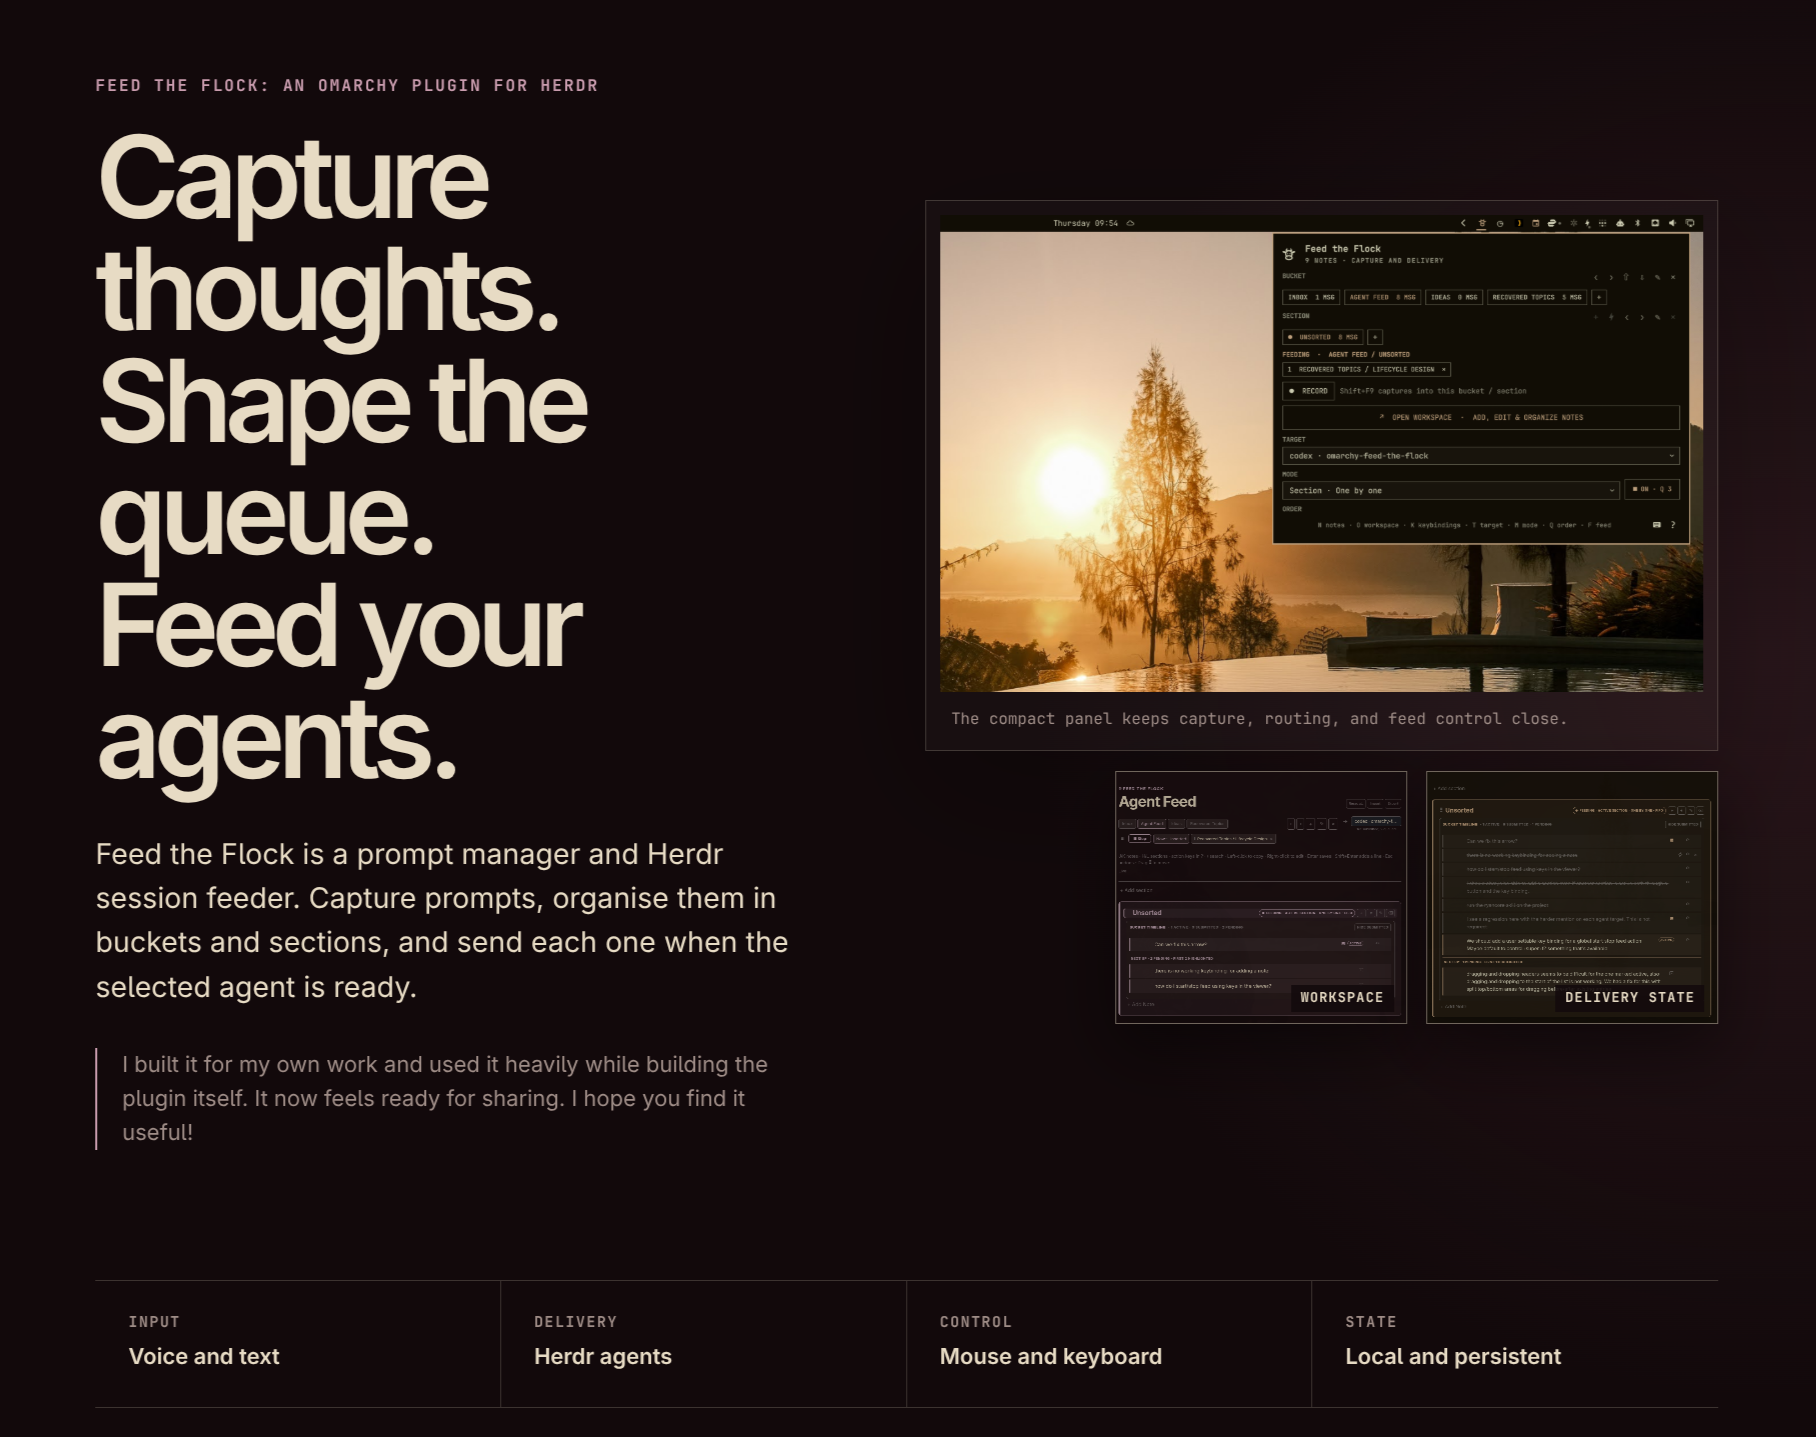
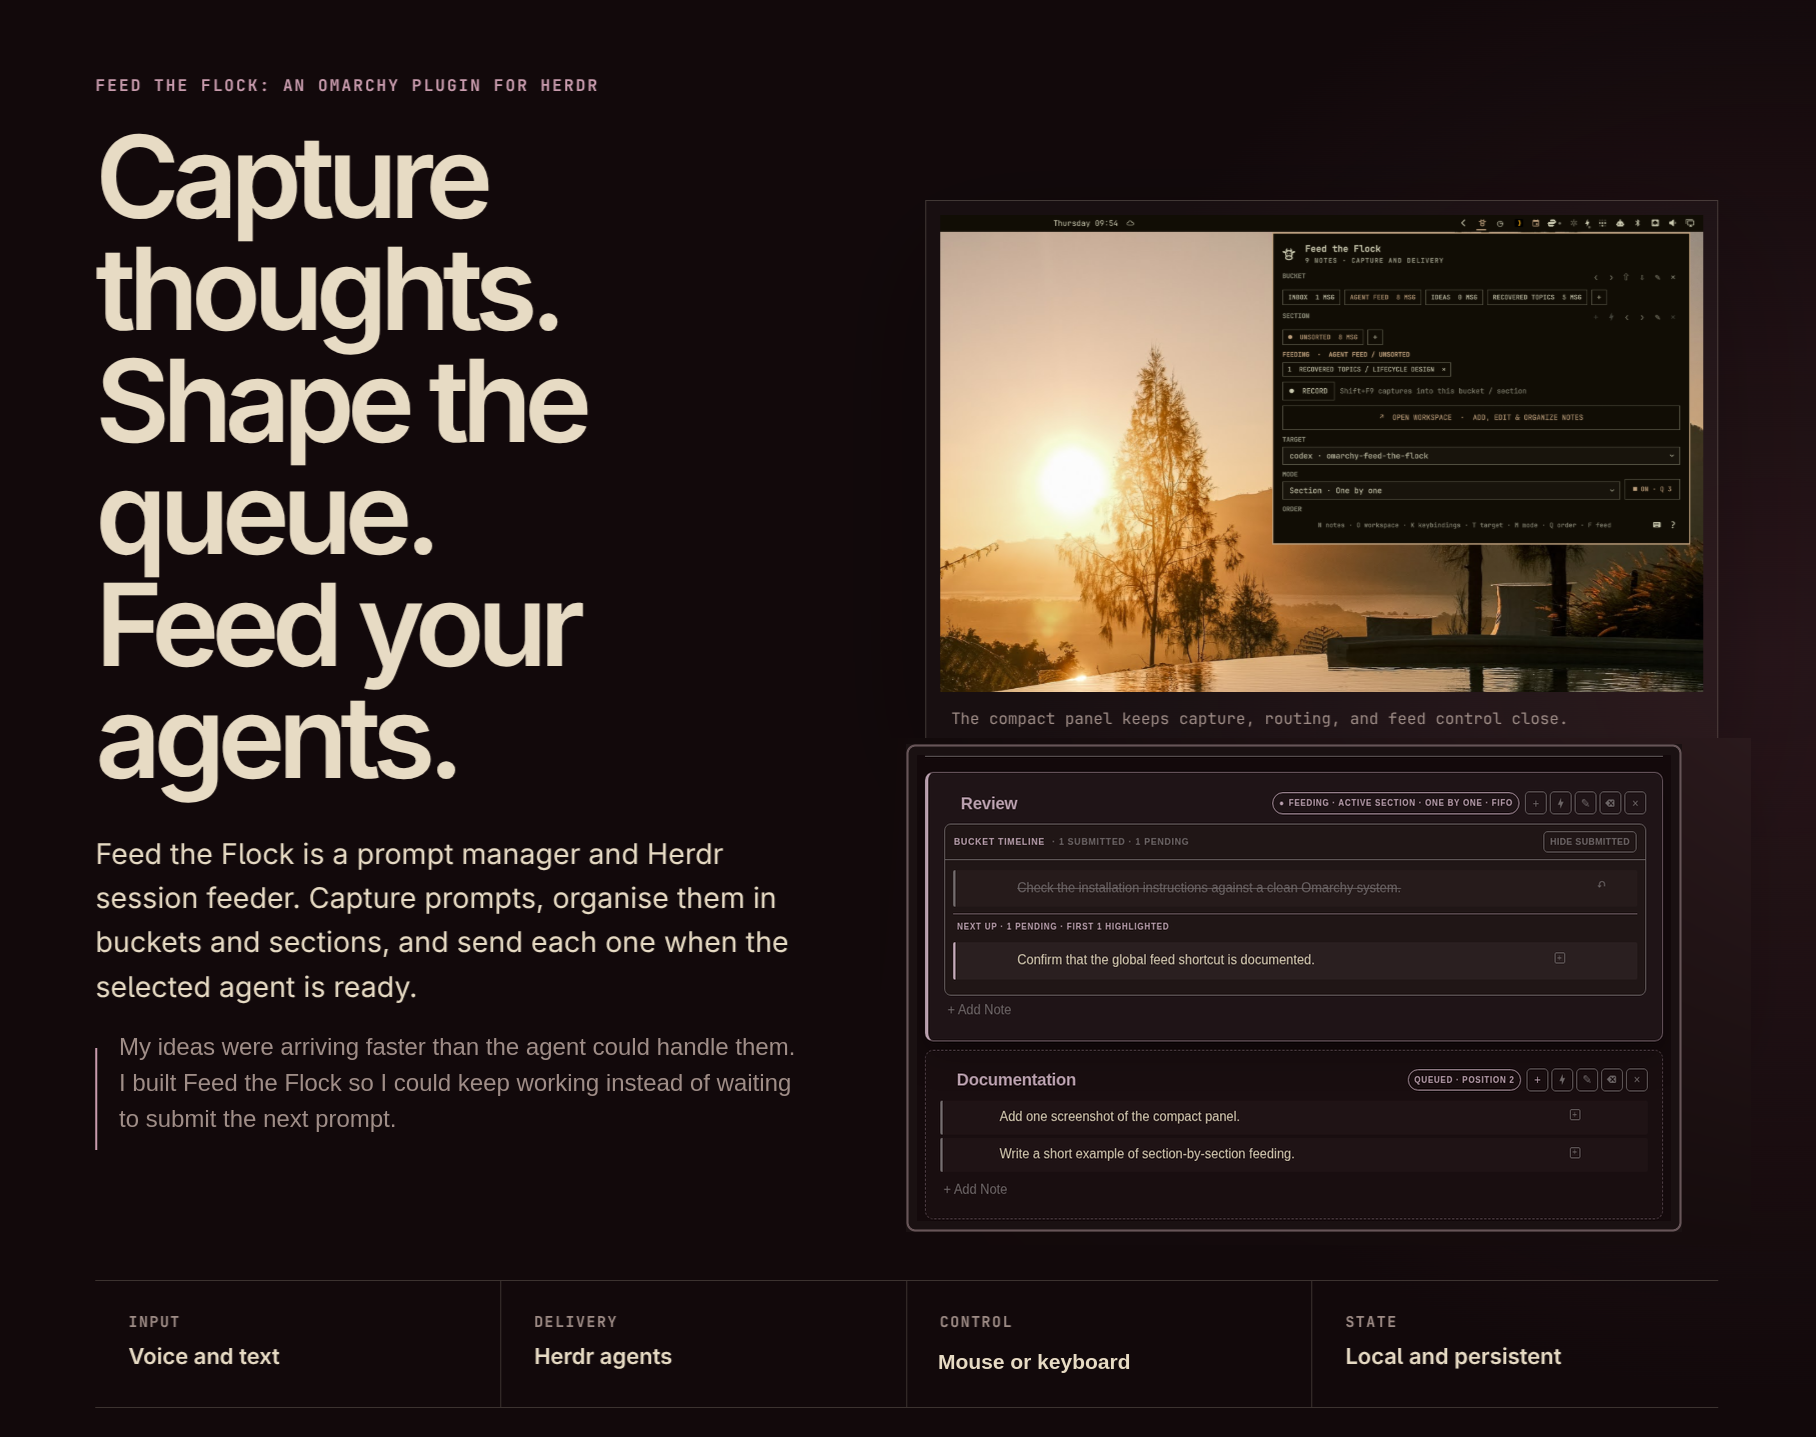
Polish feed control and refresh preview

diff --git a/PanelRoutingControls.qml b/PanelRoutingControls.qml
@@ -69,7 +69,8 @@ Column {
       text: (FeedTheFlockCore.FeedTheFlockState.feedEnabled ? "■ ON" : "▶ OFF")
         + " · Q " + FeedTheFlockCore.FeedTheFlockState.pendingCount
       bordered: true
-      foreground: FeedTheFlockCore.FeedTheFlockState.feedEnabled ? Color.accent : root.foreground
+      foreground: Color.accent
+      active: FeedTheFlockCore.FeedTheFlockState.feedEnabled
       fontFamily: root.fontFamily
       fontSize: Style.font.caption
       enabled: !FeedTheFlockCore.FeedTheFlockState.busy
